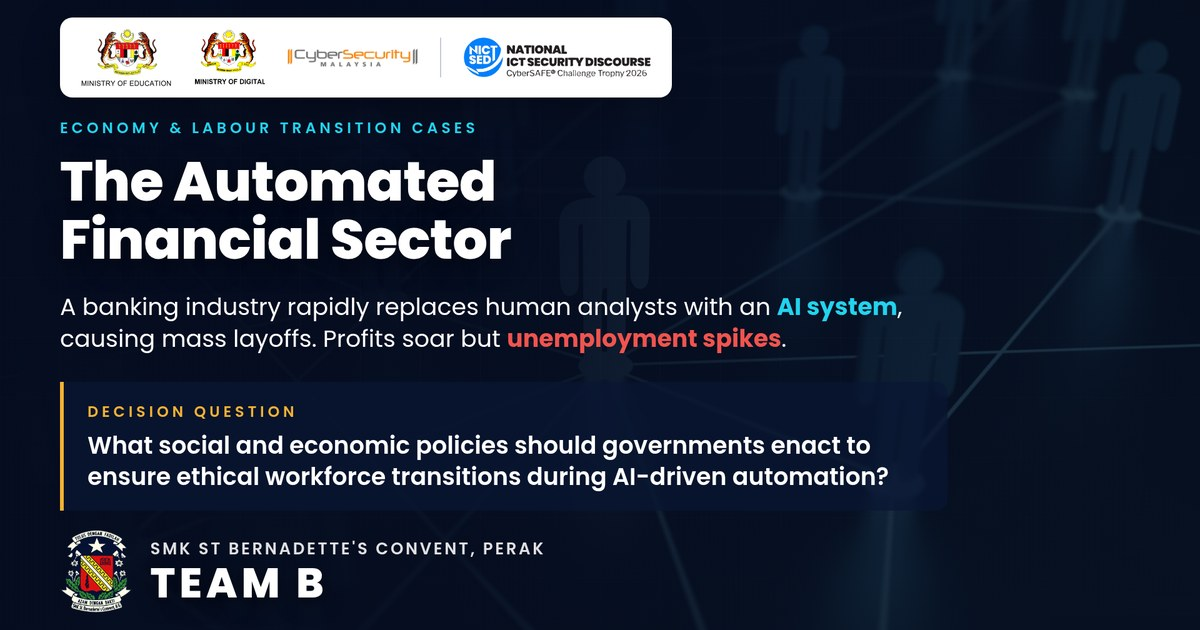
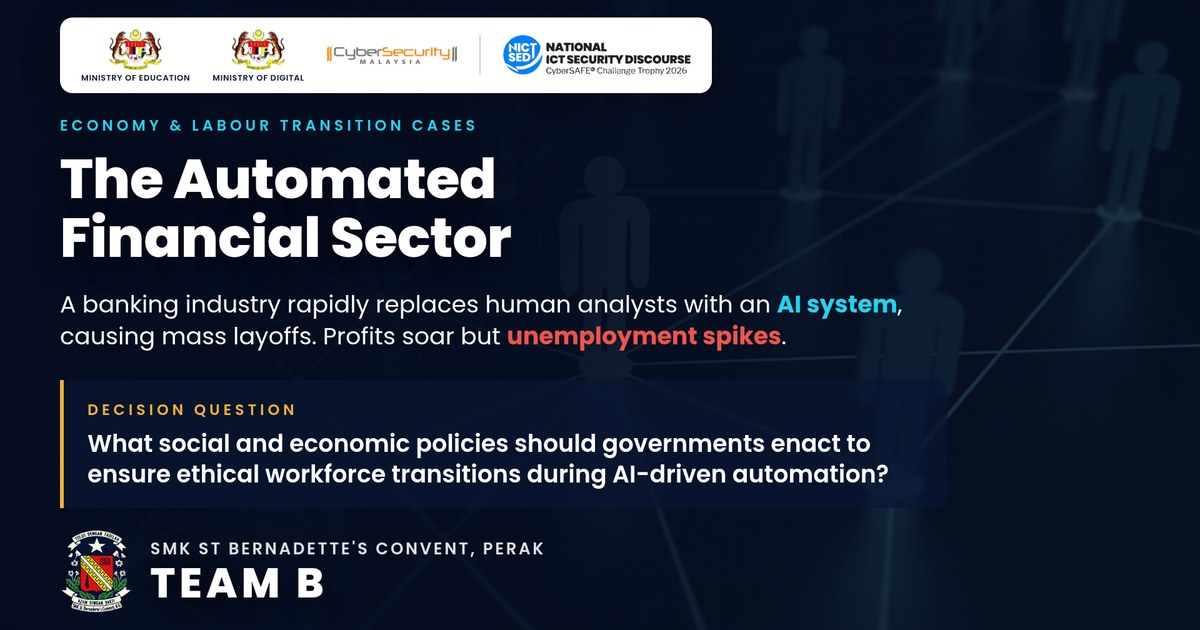
Point index.html at the new bundle, refresh preview image

diff --git a/index.html b/index.html
@@ -21,8 +21,8 @@
     <link rel="preload" href="./assets/fonts/Poppins-ExtraBold.woff2" as="font" type="font/woff2" crossorigin />
     <link rel="preload" href="./assets/fonts/Poppins-Regular.woff2" as="font" type="font/woff2" crossorigin />
     <link rel="preload" href="./assets/fonts/Poppins-SemiBold.woff2" as="font" type="font/woff2" crossorigin />
-    <script type="module" crossorigin src="./assets/index-BQCx5k4o.js"></script>
-    <link rel="stylesheet" crossorigin href="./assets/index-CXYnFzvB.css">
+    <script type="module" crossorigin src="./assets/index-BBy6IwsK.js"></script>
+    <link rel="stylesheet" crossorigin href="./assets/index-DmP-I1pp.css">
   </head>
   <body>
     <div id="root"></div>
